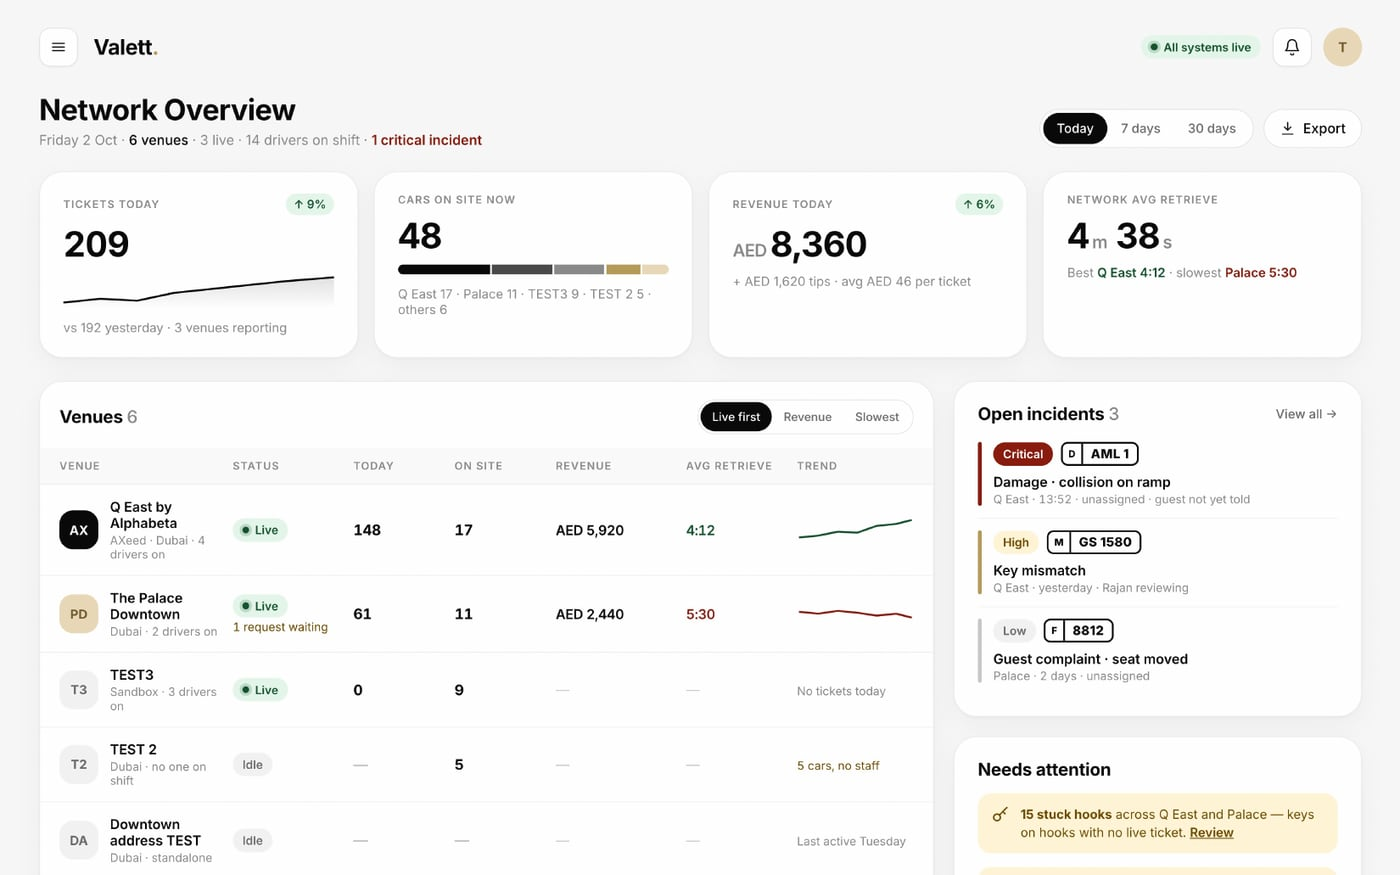
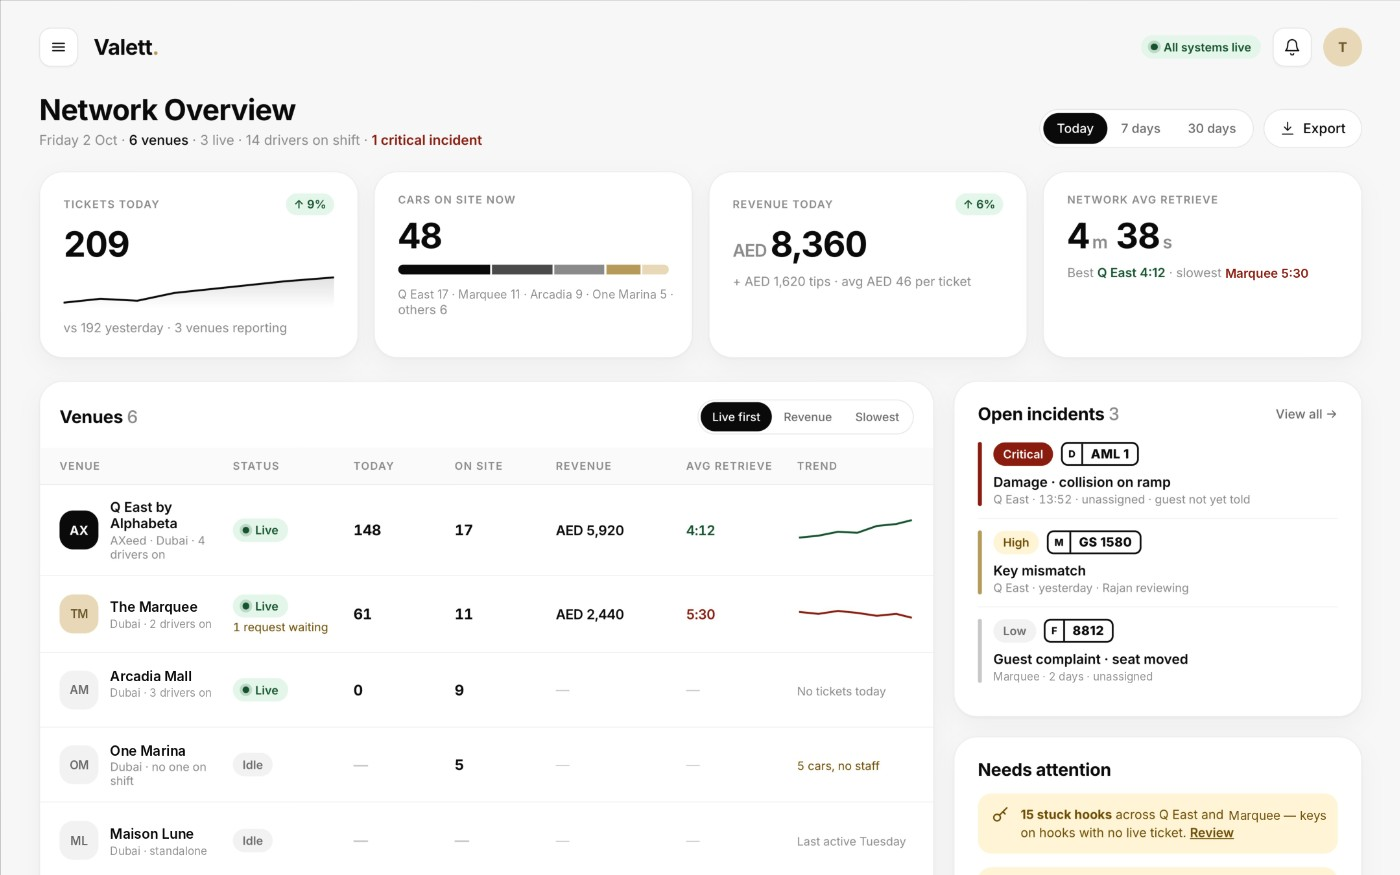
Real iPhones in Who it's for, privacy notice, 1:1 plate replica, OPERA plan, no Palace
- Who it's for: the four venue phones are the real iPhone top (status bar,
  Dynamic Island, titanium edge), scaled with the scale property.
- Privacy: full draft notice against the UAE PDPL: what the site collects,
  why, processors (Formspree, GitHub, Plausible, Cloudflare), 24-month
  retention, rights, cookies. Legal name and a lawyer's read still to come.
- Plate recognition: reads day and night and generates a full 1:1 replica of
  the plate's design and number; new live row in the technology list.
- Integrations: Hotel systems block with the Oracle OPERA Cloud plan (guest
  profile on the ticket, valet on the room bill, ready at check-out, VIP
  tiers), in development, with a trademark line. OPERA FAQ on the hotel page.
- Back office: The Palace Downtown and the TEST tenants repainted as the
  fictional The Marquee, Arcadia Mall, One Marina and Maison Lune on the
  Network and Residents tiles (scripts/reports-rename.py).

Claude-Session: https://claude.ai/code/session_01XUjYYSdYvLLVrdSuyXtLUf

diff --git a/src/data/solutions.ts b/src/data/solutions.ts
@@ -111,6 +111,7 @@ export const solutions: Solution[] = [
       { q: 'Can the valet app show our hotel’s brand instead of Valett’s?', a: 'Yes. Every venue runs its own white-label brand on the guest page: your wordmark, your colours, your name on the ticket. Guests see the hotel, not us.' },
       { q: 'How do hotel guests request their car?', a: 'From the page on their phone, with one tap, from wherever they are in the hotel. They see the request received, the driver on the way, and a text when the car is at the door.' },
       { q: 'Does Valett integrate with hotel property management systems?', a: 'Yes. Hotel PMS integration is live: room charge and guest profile. Online card payments, Apple Pay, digital tipping and crypto payments are live too.' },
+      { q: 'Does Valett work with Oracle OPERA?', a: 'It is next. Valett is building its connection to Oracle OPERA Cloud: the guest profile on the ticket, valet fees on the room bill, the car queued for the door at check-out, and VIP tiers that follow the guest. Other major hotel systems follow.' },
       { q: 'What hotel parking solutions does Valett cover?', a: 'Valet at the porte-cochère, guest and visitor parking, residents’ permanent plans for branded residences, validation by outlet, and the reporting behind them, on one record per property.' },
       { q: 'What about damage disputes?', a: 'Every car is photographed at check-in and on the walkaround, with timestamps and the driver’s name. Check-out is photographed too. The dispute is settled by the record, not by argument.' },
     ],

diff --git a/scripts/reports-rename.py b/scripts/reports-rename.py
@@ -1,0 +1,49 @@
+import numpy as np, cv2
+from PIL import Image, ImageDraw, ImageFont
+F='/usr/share/fonts/opentype/inter/Inter-%s.otf'
+def font(w,pt): return ImageFont.truetype(F%w, round(pt*2*0.95))
+class Page:
+    def __init__(s,pn): s.pn=pn; s.im=Image.open(f'p{pn}.png').convert('RGB'); s.orig=s.im.copy(); s.d=ImageDraw.Draw(s.im)
+    def px(s,r): return [round(v*2) for v in r]
+    def bg(s,r,pad=2):
+        x0,y0,x1,y1=s.px(r); a=np.array(s.orig).reshape(-1,3) if False else np.array(s.orig)
+        ring=np.concatenate([a[y0-pad-3:y0-pad, x0:x1].reshape(-1,3), a[y1+pad:y1+pad+3, x0:x1].reshape(-1,3), a[y0:y1, x1+pad:x1+pad+3].reshape(-1,3)])
+        vals,counts=np.unique(ring,axis=0,return_counts=True); return tuple(int(v) for v in vals[counts.argmax()])
+    def ink(s,r):
+        x0,y0,x1,y1=s.px(r); a=np.array(s.orig)[y0:y1,x0:x1].reshape(-1,3).astype(int); b=np.array(s.bg(r))
+        d=np.abs(a-b).sum(1); top=a[d>=np.percentile(d,94)]; return tuple(int(v) for v in np.median(top,0))
+    def erase(s,r,pad=2,color=None):
+        x0,y0,x1,y1=s.px(r); c=color or s.bg(r,pad); s.d.rectangle([x0-pad,y0-pad,x1+pad,y1+pad],fill=c); return c
+    def text(s,t,x,y,pt,w,color): f=font(w,pt); s.d.text((x*2,(y-0.9)*2),t,font=f,fill=color,anchor='la'); return x+s.d.textlength(t,font=f)/2
+    def center(s,t,r,pt,w,color): f=font(w,pt); x0,y0,x1,y1=s.px(r); s.d.text(((x0+x1)/2,(y0+y1)/2),t,font=f,fill=color,anchor='mm')
+    def save(s): s.im.save(f'p{s.pn}-edit.png')
+
+p=Page(16)
+c=p.ink([306.7,221.9,502,230.9]); p.erase([306.7,221.9,502,230.9]); p.text('Q East 17 · Marquee 11 · Arcadia 9 · One Marina 5 ·',306.7,221.9,9.5,'Regular',c)
+c=p.ink([944.4,205.4,976.6,214.4]); p.erase([944.4,205.4,1000,214.4]); p.text('Marquee 5:30',944.4,205.4,10.0,'SemiBold',c)
+def avatar(r,t):
+    c=p.ink(r); p.erase(r,pad=1); p.center(t,r,9.6,'SemiBold',c)
+def row(name_r, sub_r, name, sub, name_y, sub_y):
+    cn=p.ink(name_r); cs=p.ink(sub_r); p.erase(name_r); p.erase(sub_r)
+    p.text(name,84.7,name_y,10.8,'SemiBold',cn); p.text(sub,84.7,sub_y,9.1,'Regular',cs)
+avatar([54.0,468.7,67.4,477.8],'TM'); row([84.7,455.9,141.5,478.2],[84.7,482.5,167.6,490.8],'The Marquee','Dubai · 2 drivers on',462.0,476.2)
+avatar([54.3,527.2,67.1,536.2],'AM'); row([84.7,515.2,118.3,524.9],[84.7,529.2,167.1,548.4],'Arcadia Mall','Dubai · 3 drivers on',515.2,529.2)
+avatar([54.3,584.8,67.0,593.8],'OM'); c=p.ink([84.7,572.8,120.8,582.5]); p.erase([84.7,572.8,120.8,582.5]); p.text('One Marina',84.7,572.8,10.8,'SemiBold',c)
+avatar([53.7,643.3,67.6,652.3],'ML'); row([84.7,630.4,155.6,652.8],[84.7,657.0,163.6,665.3],'Maison Lune','Dubai · standalone',637.0,651.2)
+c=p.ink([765.7,516.9,886.4,525.2]); p.erase([765.7,516.9,886.4,525.2]); p.text('Marquee · 2 days · unassigned',765.7,516.9,9.0,'Regular',c)
+c=p.ink([948.5,623.2,980.3,632.2]); p.erase([946.6,623.2,1013.2,632.2]); p.text('Marquee — keys',947.2,623.2,10.2,'Regular',c)
+p.save()
+
+q=Page(17)
+cn=q.ink([301.1,102.7,413.0,112.4]); cg=q.ink([425.1,102.7,478.3,112.4]); q.erase([301.1,102.7,560,112.4])
+x=q.text('The Marquee',301.1,102.7,10.8,'Medium',cn); q.text(' · AED 9,600/month recurring',x,102.7,10.8,'Regular',cg)
+c=q.ink([757.6,94.0,813.3,103.7]); q.erase([757.6,94.0,813.3,103.7]); q.text('Marquee',757.6,94.0,10.7,'Medium',c)
+q.save()
+
+for name,pn in [('network.jpg',16),('residents.jpg',17)]:
+    v=np.load(name+'.npy'); M=v[1:].reshape(2,3)
+    src=cv2.imread(f'p{pn}-edit.png'); orig=cv2.imread('/home/user/website/src/assets/reports/'+name)
+    out=cv2.warpAffine(src,M,(orig.shape[1],orig.shape[0]),flags=cv2.INTER_AREA)
+    cv2.imwrite(name,out,[cv2.IMWRITE_JPEG_QUALITY,90])
+    o2=cv2.warpAffine(cv2.imread(f'p{pn}.png'),M,(orig.shape[1],orig.shape[0]),flags=cv2.INTER_AREA)
+    print(name,'unchanged-area diff vs current asset: %.2f'%np.abs(o2.astype(int)-orig.astype(int)).mean())

diff --git a/CLAUDE.md b/CLAUDE.md
@@ -80,12 +80,12 @@ Staff time — No tickets to write, no radios to call, no bays to search. The bo
 
 ### 7 Integrations and partners (white)
 H2: Built to plug into the venue.
-Fully digital system [live] · AI scanning technology [live] · Online card payments, Apple Pay and digital tipping [live] · Hotel PMS [live] · Crypto payments [live] · Car care while parked (cleaning, fuel) [live] · Parking and barrier systems [in development] · Salik and Dubai payments [exploring] (statuses updated by Leon 30 Oct). No partner names until Leon confirms in writing.
+Fully digital system [live] · AI scanning technology [live] · Online card payments, Apple Pay and digital tipping [live] · Hotel PMS [live] · Crypto payments [live] · Car care while parked (cleaning, fuel) [live] · Parking and barrier systems [in development] · Salik and Dubai payments [exploring] (statuses updated by Leon 30 Oct). No partner names until Leon confirms in writing. 31 Oct, Leon: Hotel systems block under the integrations panel: Oracle OPERA (Cloud) integration plan, four steps (guest profile on the ticket, valet on the room bill, ready at check-out, VIP tiers), pill `in development`, Oracle trademark line; not a partnership claim.
 
 ### 8 Technology (white; this and the staff section may use a dark card for the scan animation)
 Eyebrow: AI-led from the first line of code · H2: A valet operation that learns.
 Body: Valett is an AI company that happens to park cars. Vehicle recognition reads every plate, make, model and colour from one photo. Every venue runs its own white-label brand on the guest page. Every rule, from VIP tiers to validation to residents' plans, is configurable without a developer. We are building the operation that runs itself: predicting demand, assigning drivers, flagging incidents before a guest notices.
-Vehicle recognition from one photo [live] · White-label branding per venue, English and Arabic [live] · Fully configurable rules, tiers and validation [live] · AI scanning camera on every driver's device [pending Leon: wording] · Demand prediction and automatic driver assignment [in development]
+Vehicle recognition from one photo [live] · 1:1 plate replica, design and number, day and night [live] (31 Oct, Leon: recognition works day and night and generates a full 1:1 replica of the plate design and number) · White-label branding per venue, English and Arabic [live] · Fully configurable rules, tiers and validation [live] · AI scanning camera on every driver's device [pending Leon: wording] · Demand prediction and automatic driver assignment [in development]
 Reuse the scan animation from §4 (camera frame → "Scanning vehicle…" → plate, make, model, colour filling in).
 
 ### 9 Who it's for (white)

diff --git a/docs/PENDING.md b/docs/PENDING.md
@@ -10,11 +10,11 @@ Items the site needs before launch, in the order they block work. Each has a pla
 | LinkedIn URL | `src/data/site.ts` → `linkedin` | linkedin.com/company/valett |
 | The film | done 27 Oct: `public/film/valett-film-16x9.mp4` (1080p, 11.8 MB), `valett-film-9x16.mp4` (720p, 4.4 MB), `valett-film.en.vtt`; plays in §2 with controls. `site.film.inHero` is false, so the scroll story stays as the hero; flip it to put the film there instead | — |
 | Logo SVG | `public/favicon.svg`, `Wordmark.astro` | Serif VALETT wordmark set live in Cormorant Garamond; geometric V favicon. Drop the official SVG in when it exists |
-| Reports mockup PDF | received 27 Oct; §5 uses crops of pages 1, 3, 6, 7, 10, 11, 14, 16, 17, 18 (`src/assets/reports/`). Pages carry tenant names Q East by Alphabeta, AXeed and The Palace Downtown; confirm those may appear | — |
+| Reports mockup PDF | received 27 Oct; §5 uses crops of pages 1, 3, 6, 7, 10, 11, 14, 16, 17, 18 (`src/assets/reports/`). 31 Oct: The Palace Downtown and the TEST tenants repainted as the fictional The Marquee, Arcadia Mall, One Marina and Maison Lune on the Network and Residents tiles (`scripts/reports-rename.py`); Q East by Alphabeta and AXeed stay | — |
 | Mo Aziz photo | `Plan.astro` | Initials circle (Leon, Tom and Abdulla photos received 27 Oct, in `src/assets/team/`) |
 | Wording for "AI scanning camera on every driver's device" | `Technology.astro` | Shown as written, pill `live` |
 | Partner names (PMS, barrier systems, car care) | `Integrations.astro` | Generic names, statuses from the brief |
-| Privacy policy text | `src/pages/privacy.astro` | Short honest notice marked as placeholder |
+| Privacy policy text | `src/pages/privacy.astro` | 31 Oct: full draft against UAE PDPL (what we collect, processors, 24-month retention, rights); needs the company's legal name and a lawyer's read |
 | Domain DNS for valettuae.com | Vercel project settings | — |
 
 ## Notes on the uploaded media (26 Oct)
